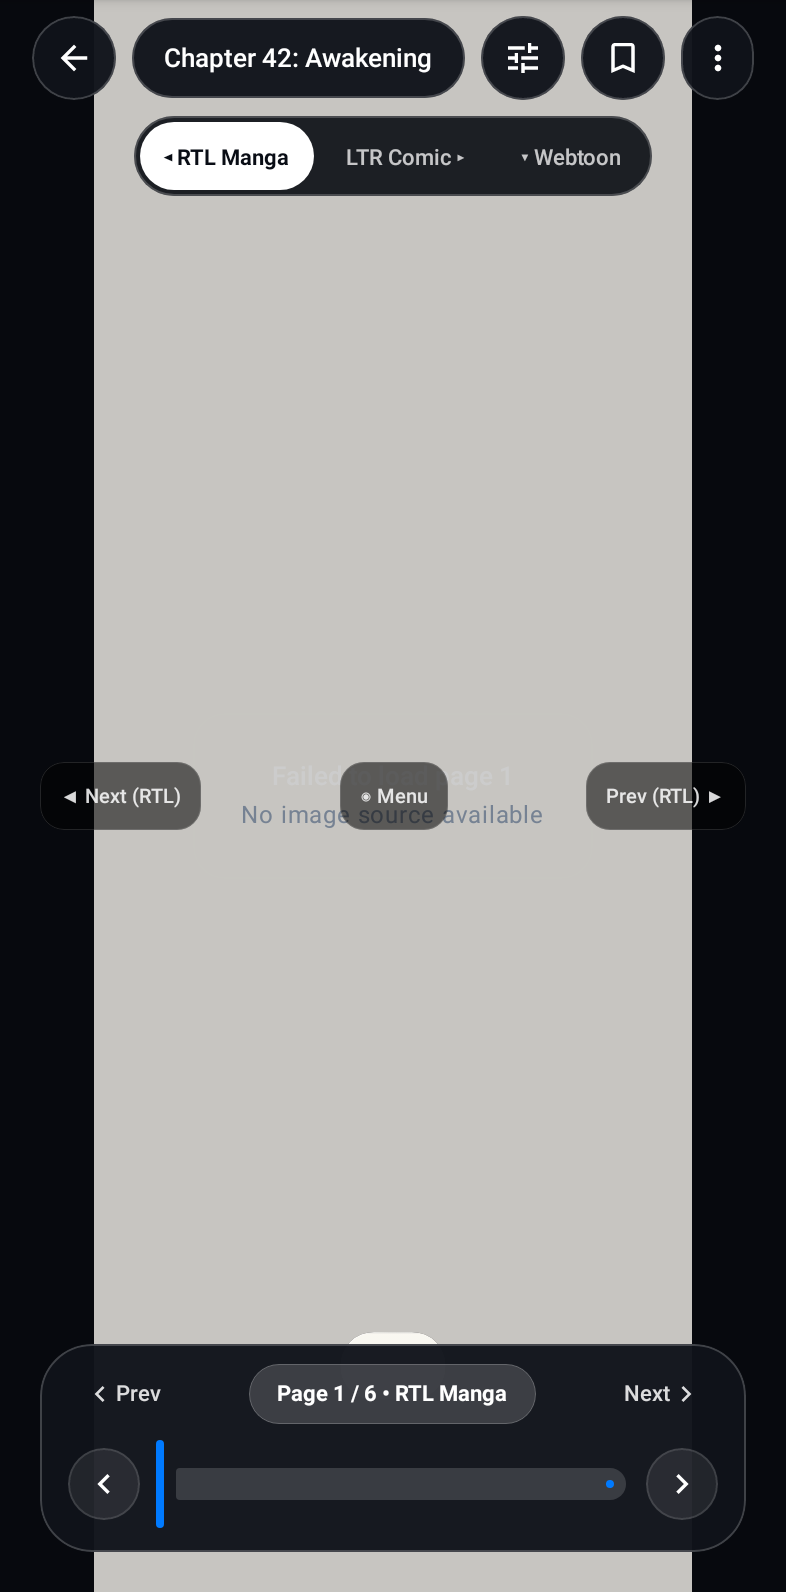
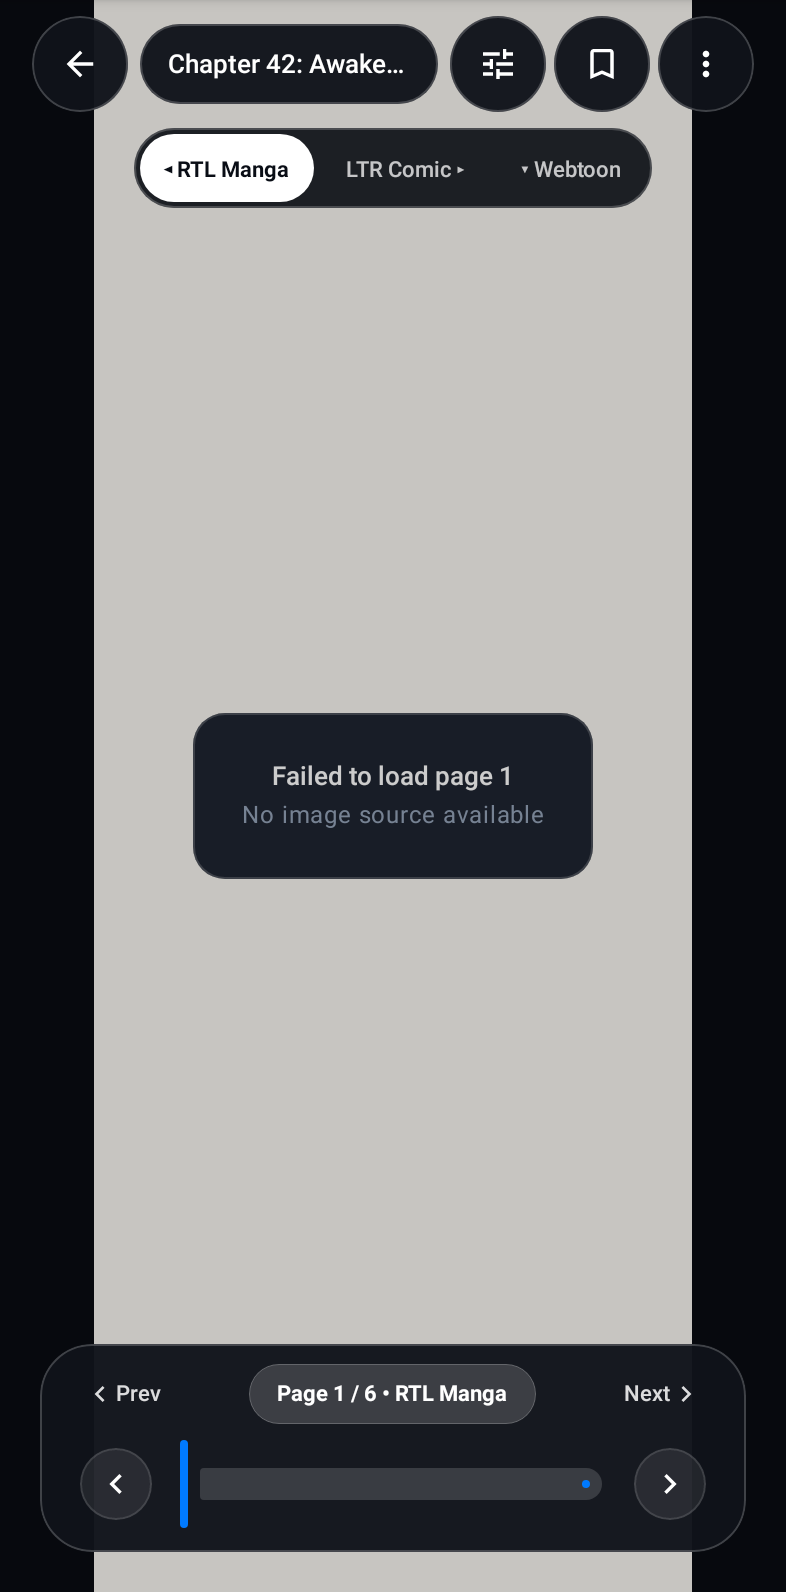
a11y/UI: reader error card + chapter nav semantics

diff --git a/UI UX/composeApp/src/commonMain/kotlin/ui/screens/webtoonreader/WebtoonReaderScreen.kt b/UI UX/composeApp/src/commonMain/kotlin/ui/screens/webtoonreader/WebtoonReaderScreen.kt
@@ -24,6 +24,7 @@ import androidx.compose.foundation.layout.height
 import androidx.compose.foundation.layout.navigationBarsPadding
 import androidx.compose.foundation.layout.offset
 import androidx.compose.foundation.layout.padding
+import androidx.compose.foundation.layout.requiredSize
 import androidx.compose.foundation.layout.size
 import androidx.compose.foundation.layout.statusBarsPadding
 import androidx.compose.foundation.layout.width
@@ -94,10 +95,15 @@ import androidx.compose.ui.input.nestedscroll.NestedScrollSource
 import androidx.compose.ui.input.nestedscroll.nestedScroll
 import androidx.compose.ui.platform.LocalDensity
 import androidx.compose.ui.text.font.FontWeight
+import androidx.compose.ui.text.style.TextOverflow
 import androidx.compose.ui.unit.IntOffset
 import androidx.compose.ui.unit.Velocity
 import androidx.compose.ui.unit.dp
 import androidx.compose.ui.unit.sp
+import org.jetbrains.compose.resources.stringResource
+import panelreader.composeapp.generated.resources.Res
+import panelreader.composeapp.generated.resources.reader_next_chapter
+import panelreader.composeapp.generated.resources.reader_previous_chapter
 import kotlin.math.roundToInt
 import cafe.adriel.voyager.core.screen.Screen
 import cafe.adriel.voyager.navigator.LocalNavigator
@@ -999,24 +1005,26 @@ fun WebtoonReaderScreenContent(
                 // Top Row: Back button, Chapter Title, Bookmark & Settings
                 Row(
                     modifier = Modifier.fillMaxWidth(),
-                    horizontalArrangement = Arrangement.SpaceBetween,
+                    horizontalArrangement = Arrangement.spacedBy(6.dp),
                     verticalAlignment = Alignment.CenterVertically
                 ) {
                     // Back Button
                     PanelCircleIconButton(
                         icon = Icons.AutoMirrored.Filled.ArrowBack,
-                        size = 42.dp,
+                        contentDescription = "Back",
+                        size = 48.dp,
                         iconSize = 20.dp,
                         glassState = null,
                         backgroundColor = Color(0xF50F1219),
                         borderColor = GlassBorderStrong,
+                        modifier = Modifier.requiredSize(48.dp),
                         onClick = onBack
                     )
 
-                    // Chapter Title Capsule
+                    // Chapter Title Capsule (truncates on narrow widths without squeezing 48dp touch targets)
                     Box(
                         modifier = Modifier
-                            .padding(horizontal = 8.dp)
+                            .weight(1f, fill = false)
                             .clip(CapsuleShape)
                             .background(Color(0xF50F1219))
                             .border(1.dp, GlassBorderStrong, CapsuleShape),
@@ -1027,38 +1035,46 @@ fun WebtoonReaderScreenContent(
                             color = Color.White,
                             fontSize = 13.sp,
                             fontWeight = FontWeight.SemiBold,
-                            modifier = Modifier.padding(horizontal = 16.dp, vertical = 9.dp)
+                            maxLines = 1,
+                            overflow = TextOverflow.Ellipsis,
+                            modifier = Modifier.padding(horizontal = 14.dp, vertical = 9.dp)
                         )
                     }
 
-                    // Bookmark & Settings Buttons
-                    Row(horizontalArrangement = Arrangement.spacedBy(8.dp)) {
+                    // Settings, Bookmark & More Buttons
+                    Row(horizontalArrangement = Arrangement.spacedBy(4.dp)) {
                         PanelCircleIconButton(
                             icon = Icons.Default.Tune,
-                            size = 42.dp,
+                            contentDescription = "Reader Settings",
+                            size = 48.dp,
                             iconSize = 20.dp,
                             glassState = null,
                             backgroundColor = Color(0xF50F1219),
                             borderColor = GlassBorderStrong,
+                            modifier = Modifier.requiredSize(48.dp),
                             onClick = onOpenSettings
                         )
                         PanelCircleIconButton(
                             icon = if (isBookmarked) Icons.Default.Bookmark else Icons.Default.BookmarkBorder,
-                            size = 42.dp,
+                            contentDescription = "Bookmark",
+                            size = 48.dp,
                             iconSize = 20.dp,
                             tint = if (isBookmarked) MaterialTheme.colorScheme.primary else Color.White,
                             glassState = null,
                             backgroundColor = Color(0xF50F1219),
                             borderColor = GlassBorderStrong,
+                            modifier = Modifier.requiredSize(48.dp),
                             onClick = { isBookmarked = !isBookmarked }
                         )
                         PanelCircleIconButton(
                             icon = Icons.Default.MoreVert,
-                            size = 42.dp,
+                            contentDescription = "More options",
+                            size = 48.dp,
                             iconSize = 20.dp,
                             glassState = null,
                             backgroundColor = Color(0xF50F1219),
                             borderColor = GlassBorderStrong,
+                            modifier = Modifier.requiredSize(48.dp),
                             onClick = { /* Menu */ }
                         )
                     }
@@ -1231,6 +1247,7 @@ fun WebtoonReaderScreenContent(
                         // Previous Chapter button
                         PanelCircleIconButton(
                             icon = Icons.AutoMirrored.Filled.NavigateBefore,
+                            contentDescription = stringResource(Res.string.reader_previous_chapter),
                             size = 36.dp,
                             iconSize = 20.dp,
                             glassState = null,
@@ -1264,6 +1281,7 @@ fun WebtoonReaderScreenContent(
                         // Next Chapter button
                         PanelCircleIconButton(
                             icon = Icons.AutoMirrored.Filled.NavigateNext,
+                            contentDescription = stringResource(Res.string.reader_next_chapter),
                             size = 36.dp,
                             iconSize = 20.dp,
                             glassState = null,

diff --git a/UI UX/composeApp/src/androidUnitTest/kotlin/io/panel/reader/ReaderRecoveryUiTest.kt b/UI UX/composeApp/src/androidUnitTest/kotlin/io/panel/reader/ReaderRecoveryUiTest.kt
@@ -1,0 +1,159 @@
+package io.panel.reader
+
+import androidx.compose.foundation.layout.Box
+import androidx.compose.foundation.layout.width
+import androidx.compose.runtime.CompositionLocalProvider
+import androidx.compose.runtime.getValue
+import androidx.compose.runtime.mutableFloatStateOf
+import androidx.compose.runtime.mutableStateOf
+import androidx.compose.runtime.setValue
+import androidx.compose.ui.Modifier
+import androidx.compose.ui.platform.LocalDensity
+import androidx.compose.ui.semantics.Role
+import androidx.compose.ui.semantics.SemanticsProperties
+import androidx.compose.ui.test.SemanticsMatcher
+import androidx.compose.ui.test.assertHeightIsAtLeast
+import androidx.compose.ui.test.assertIsDisplayed
+import androidx.compose.ui.test.assertWidthIsAtLeast
+import androidx.compose.ui.test.junit4.createComposeRule
+import androidx.compose.ui.test.onNodeWithContentDescription
+import androidx.compose.ui.test.onNodeWithText
+import androidx.compose.ui.test.performClick
+import androidx.compose.ui.unit.Density
+import androidx.compose.ui.unit.dp
+import core.source.SourcePage
+import data.settings.DefaultReadingMode
+import data.settings.FakeSettingsRepository
+import org.junit.After
+import org.junit.Rule
+import org.junit.Test
+import org.junit.runner.RunWith
+import org.robolectric.RobolectricTestRunner
+import org.robolectric.annotation.Config
+import ui.screens.webtoonreader.MangaPageErrorCard
+import ui.screens.webtoonreader.WebtoonReaderScreenContent
+import ui.screens.webtoonreader.formatImageLoadError
+import ui.theme.PanelTheme
+
+@RunWith(RobolectricTestRunner::class)
+@Config(sdk = [34])
+class ReaderRecoveryUiTest {
+
+    @get:Rule
+    val composeTestRule = createComposeRule()
+
+    @After
+    fun tearDown() {
+        coil3.SingletonImageLoader.reset()
+    }
+
+    @Test
+    fun primaryAction_readerRendersPagesAndAdvancesChapter() {
+        var nextChapterClicks = 0
+        val settingsRepo = FakeSettingsRepository().apply {
+            setDefaultReadingMode(DefaultReadingMode.WEBTOON)
+        }
+        val pages = listOf(
+            SourcePage(index = 0, url = "page-1"),
+            SourcePage(index = 1, url = "page-2")
+        )
+
+        composeTestRule.setContent {
+            PanelTheme {
+                WebtoonReaderScreenContent(
+                    chapterTitle = "Episode 42",
+                    pages = pages,
+                    settingsRepository = settingsRepo,
+                    hasNextChapter = true,
+                    nextChapterTitle = "Episode 43",
+                    onNextChapter = { nextChapterClicks++ },
+                    onBack = {}
+                )
+            }
+        }
+
+        // Controls are visible on open without duplicate floating pill or middle-menu clutter
+        composeTestRule.onNodeWithText("Episode 42").assertIsDisplayed()
+        composeTestRule.onNodeWithText("0% • Continuous").assertIsDisplayed()
+        composeTestRule.onNodeWithText("◉ Menu").assertDoesNotExist()
+
+        // Exercise primary chapter-advance action via Next Chapter control
+        composeTestRule.onNodeWithContentDescription("Next Chapter").performClick()
+        assert(nextChapterClicks == 1)
+    }
+
+    @Test
+    fun recoveryPath_errorCardExposesButtonSemanticsAndRetries() {
+        var hasError by mutableStateOf(true)
+        var retryCount = 0
+        val message = formatImageLoadError(
+            url = "http://example.com/p1.jpg",
+            throwableMessage = "Cleartext HTTP traffic not permitted"
+        )
+
+        composeTestRule.setContent {
+            PanelTheme {
+                if (hasError) {
+                    MangaPageErrorCard(
+                        pageNumber = 1,
+                        errorMessage = message,
+                        onRetry = {
+                            retryCount++
+                            hasError = false
+                        }
+                    )
+                }
+            }
+        }
+
+        composeTestRule.onNodeWithText("Failed to load page 1").assertIsDisplayed()
+        composeTestRule.onNodeWithText(message).assertIsDisplayed()
+        composeTestRule.onNode(
+            SemanticsMatcher.expectValue(SemanticsProperties.Role, Role.Button)
+        ).assertIsDisplayed().performClick()
+
+        composeTestRule.waitForIdle()
+        assert(retryCount == 1)
+        composeTestRule.onNodeWithText("Failed to load page 1").assertDoesNotExist()
+    }
+
+    @Test
+    fun narrowWidth_highFontScale_preserves48dpTouchTargets() {
+        val settingsRepo = FakeSettingsRepository().apply {
+            setDefaultReadingMode(DefaultReadingMode.WEBTOON)
+        }
+        val pages = listOf(SourcePage(index = 0, url = "page-1"))
+        var fontScale by mutableFloatStateOf(1.3f)
+
+        composeTestRule.setContent {
+            val baseDensity = LocalDensity.current
+            CompositionLocalProvider(
+                LocalDensity provides Density(baseDensity.density, fontScale = fontScale)
+            ) {
+                PanelTheme {
+                    Box(modifier = Modifier.width(320.dp)) {
+                        WebtoonReaderScreenContent(
+                            chapterTitle = "Chapter 142: The Sovereign of Eternal Shadows and Crimson Stars",
+                            pages = pages,
+                            settingsRepository = settingsRepo,
+                            onBack = {}
+                        )
+                    }
+                }
+            }
+        }
+
+        for (scale in listOf(1.3f, 2.0f)) {
+            fontScale = scale
+            composeTestRule.waitForIdle()
+            composeTestRule.onNodeWithContentDescription("More options")
+                .assertIsDisplayed()
+                .assertWidthIsAtLeast(48.dp)
+                .assertHeightIsAtLeast(48.dp)
+            composeTestRule.onNodeWithContentDescription("Back")
+                .assertIsDisplayed()
+                .assertWidthIsAtLeast(48.dp)
+                .assertHeightIsAtLeast(48.dp)
+        }
+    }
+}

diff --git a/UI UX/composeApp/src/commonMain/kotlin/ui/screens/webtoonreader/MangaPageCanvas.kt b/UI UX/composeApp/src/commonMain/kotlin/ui/screens/webtoonreader/MangaPageCanvas.kt
@@ -14,6 +14,7 @@ import androidx.compose.foundation.layout.Column
 import androidx.compose.foundation.layout.Spacer
 import androidx.compose.foundation.layout.fillMaxSize
 import androidx.compose.foundation.layout.height
+import androidx.compose.foundation.layout.heightIn
 import androidx.compose.foundation.layout.padding
 import androidx.compose.foundation.layout.size
 import androidx.compose.foundation.shape.RoundedCornerShape
@@ -41,7 +42,15 @@ import androidx.compose.ui.input.pointer.pointerInput
 import androidx.compose.ui.input.pointer.positionChanged
 import androidx.compose.ui.layout.ContentScale
 import androidx.compose.ui.layout.onSizeChanged
+import androidx.compose.ui.semantics.Role
 import androidx.compose.ui.text.font.FontWeight
+import androidx.compose.ui.text.style.TextAlign
+import org.jetbrains.compose.resources.stringResource
+import panelreader.composeapp.generated.resources.Res
+import panelreader.composeapp.generated.resources.reader_tap_to_retry
+import ui.theme.GlassBorderStrong
+import ui.theme.PanelSurface
+import ui.theme.PanelSurfaceSubtle
 import androidx.compose.ui.unit.IntSize
 import androidx.compose.ui.unit.dp
 import androidx.compose.ui.unit.sp
@@ -273,8 +282,8 @@ internal fun MangaPageErrorCard(
         verticalArrangement = Arrangement.Center,
         modifier = modifier
             .clip(RoundedCornerShape(16.dp))
-            .background(Color.White.copy(alpha = 0.05f))
-            .border(1.dp, Color.White.copy(alpha = 0.12f), RoundedCornerShape(16.dp))
+            .background(PanelSurface.copy(alpha = 0.94f))
+            .border(1.dp, GlassBorderStrong, RoundedCornerShape(16.dp))
             .padding(24.dp)
     ) {
         if (onRetry != null) {
@@ -290,29 +299,34 @@ internal fun MangaPageErrorCard(
             text = "Failed to load page $pageNumber",
             style = MaterialTheme.typography.bodyMedium,
             color = TextPrimary,
-            fontWeight = FontWeight.Medium
+            fontWeight = FontWeight.Medium,
+            textAlign = TextAlign.Center
         )
         Spacer(modifier = Modifier.height(4.dp))
         Text(
             text = errorMessage ?: "Image could not be retrieved",
             style = MaterialTheme.typography.bodySmall,
-            color = TextSecondary
+            color = TextSecondary,
+            textAlign = TextAlign.Center
         )
         if (onRetry != null) {
             Spacer(modifier = Modifier.height(16.dp))
+            val retryLabel = stringResource(Res.string.reader_tap_to_retry)
             Box(
+                contentAlignment = Alignment.Center,
                 modifier = Modifier
+                    .heightIn(min = 44.dp)
                     .clip(RoundedCornerShape(10.dp))
-                    .background(Color.White.copy(alpha = 0.12f))
-                    .border(1.dp, Color.White.copy(alpha = 0.2f), RoundedCornerShape(10.dp))
-                    .clickable { onRetry() }
-                    .padding(horizontal = 16.dp, vertical = 8.dp)
+                    .background(PanelSurfaceSubtle)
+                    .border(1.dp, GlassBorderStrong, RoundedCornerShape(10.dp))
+                    .clickable(role = Role.Button) { onRetry() }
+                    .padding(horizontal = 16.dp, vertical = 10.dp)
             ) {
                 Text(
-                    text = "Tap to Retry",
+                    text = retryLabel,
                     fontSize = 13.sp,
                     fontWeight = FontWeight.SemiBold,
-                    color = Color.White
+                    color = TextPrimary
                 )
             }
         }

diff --git a/UI UX/composeApp/src/androidUnitTest/kotlin/io/panel/reader/ScreenshotsTest.kt b/UI UX/composeApp/src/androidUnitTest/kotlin/io/panel/reader/ScreenshotsTest.kt
@@ -591,4 +591,26 @@ class ScreenshotsTest {
         }
         composeTestRule.onRoot().captureRoboImage("screenshots/24_repo_manager_dialog.png")
     }
+
+    @Test
+    @Config(qualifiers = "w320dp-h640dp-xhdpi")
+    fun capture_25_webtoon_reader_narrow_320dp() {
+        val pages = runBlocking { repository.getPages("").first() }
+        val mangaSettingsRepo = FakeSettingsRepository().apply {
+            setDefaultReadingMode(DefaultReadingMode.WEBTOON)
+        }
+
+        composeTestRule.setContent {
+            PanelTheme {
+                WebtoonReaderScreenContent(
+                    chapterTitle = "Chapter 142: The Sovereign of Eternal Shadows and Crimson Stars",
+                    pages = pages,
+                    settingsRepository = mangaSettingsRepo,
+                    isOfflineCached = true,
+                    onBack = {}
+                )
+            }
+        }
+        composeTestRule.onRoot().captureRoboImage("screenshots/25_webtoon_reader_narrow_320dp.png")
+    }
 }
